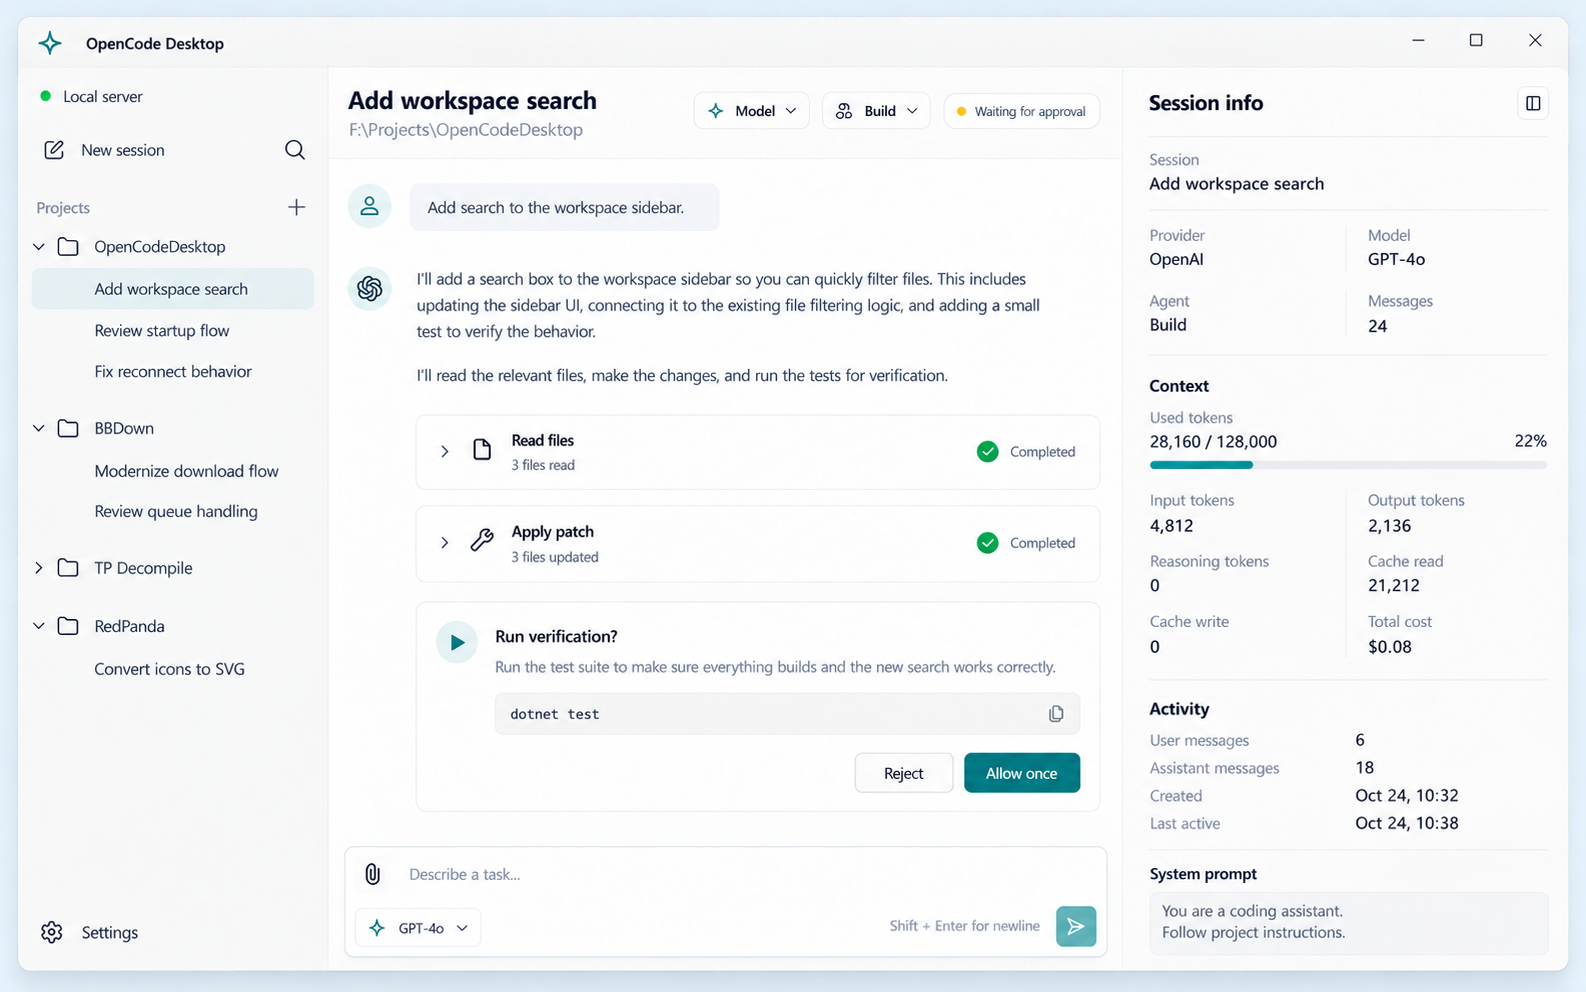
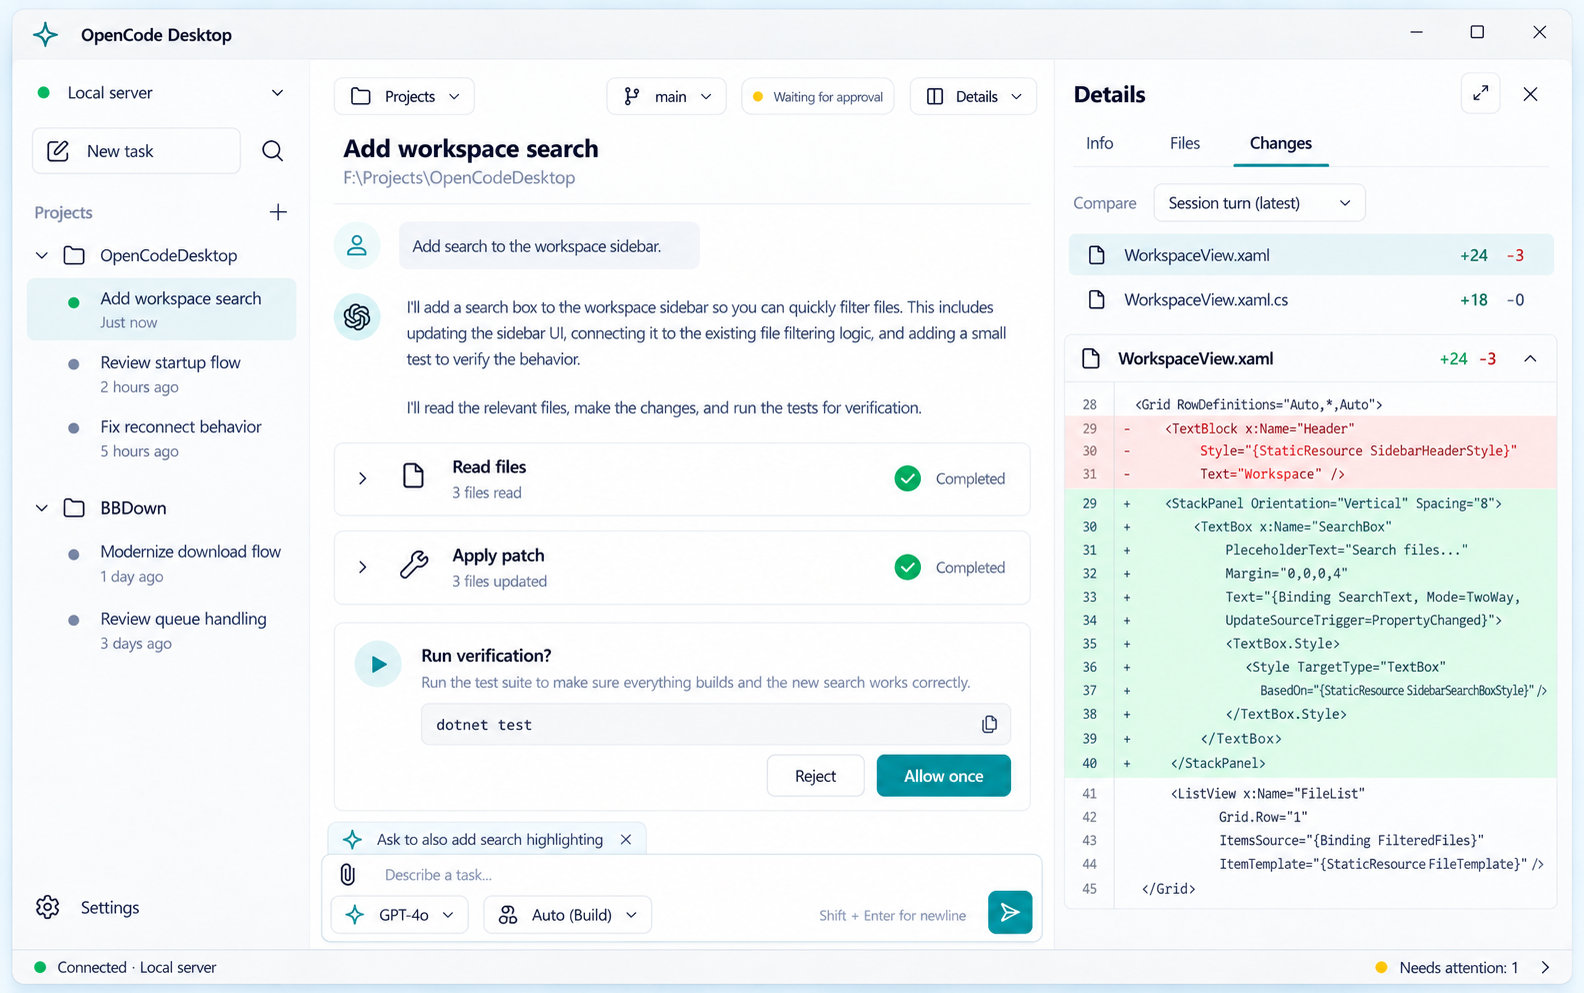
feat: Update design system documentation and implement interactive workspace layout

diff --git a/docs/work-items/WI-004-implement-interactive-workspace-layout.md b/docs/work-items/WI-004-implement-interactive-workspace-layout.md
@@ -1,0 +1,111 @@
+# WI-004 Implement the interactive workspace layout and Settings navigation
+
+## Details
+
+- Type: Implementation
+- Related requirements: [Workspace Layout and interaction requirements](../requirements/overview.md#workspace-layout); presentation surfaces for PRJ-01, SES-01/02/03, MSG-01/02, EXE-01/02/03, INT-01/02, REV-01/02, and P2 tools/settings. This item does not complete their live-service behavior.
+- Priority: P0 shell foundation
+- Dependencies: [WI-003](WI-003-implement-application-shell.md), completed
+- Status: See the [work item index](README.md)
+
+## Goal
+
+Deliver a runnable WinUI shell whose principal components have real layout, navigation, selection, and local interaction. A user must be able to launch without an OpenCode server and try the workspace, Details tabs, terminal surface, and Settings using explicitly labeled in-memory sample content. Empty boxes, static screenshots, and inert buttons alone do not satisfy this item. Later work supplies actual API operations and richer rendering.
+
+## Design and agreed boundaries
+
+Use the replaced [desktop concept](../requirements/desktop-concept.png), the [workspace requirements](../requirements/overview.md#workspace-layout), and existing [design tokens](../design/design-system.md). The image shows a representative Changes-tab state; the written scope below also defines the other tabs and Settings. Preserve the native Windows title bar and existing light/dark/high-contrast foundation. Match hierarchy and interaction rather than generated pixel details or example model names.
+
+- Remove the outer application navigation rail. Projects/sessions are the only left workspace panel.
+- Keep the central header, independently scrolling conversation, pending-input area, and anchored composer.
+- Replace Session info with a right-hand Details pane containing Info, Files, and Changes tabs. File previews and expanded diffs belong here, never in a bottom preview/diff panel.
+- Put Connections and Extensions inside Settings. Settings is reached from the projects-panel footer, with a header entry available when Projects is hidden. Settings replaces the workspace content and has an explicit return action.
+- Keep connection status and Needs attention reachable outside Settings. Connection state and session execution state have separate labels.
+- Both side panels collapse independently. Details is resizable and has expand/restore; narrow layouts use overlays or a full-content Details view without squeezing text into unusable columns. Terminal output alone may use a collapsible bottom surface.
+
+## Scope and component interactions
+
+### 1. Preview boundary and sample state
+
+Normal startup remains disconnected with truthful empty states and a visible **Preview sample workspace** entry. Entering preview displays a persistent **Layout preview - sample data** indicator. Supply at least two sample projects, several sessions with distinct execution states, a multi-message conversation with code and tool activity, a pending permission, a question form, files, changes, and terminal output. An **Exit preview** action restores the disconnected shell. A reset action restores sample fixtures for repeatable review.
+
+Keep preview state in App presentation models/view models, separate from real connection state and future service composition. Switching sessions preserves independent drafts, tab selection, selected file/diff, and scroll position within the running app. Samples never trigger HTTP, process execution, credential persistence, repository changes, provider authentication, or actual permission decisions. No fake success is shown as a live result.
+
+### 2. Projects and sessions
+
+Implement project expand/collapse, project/session search with clear and no-results states, session selection, and a New task action creating/selecting an in-memory draft. Project controls expose a local sample directory/worktree selector. A session menu provides preview rename, fork, archive/restore, and delete with observable local effects; cancel leaves state unchanged. Keep archived sessions reachable through a filter. Other future operations may be omitted rather than exposed as inert buttons.
+
+### 3. Header, conversation, and composer
+
+Show selected session title, server-side directory, sample branch/worktree, and execution state. Provide Projects, Details, Terminal, and Settings access. Render selectable sample text, a code block, expandable tool cards, a clickable file reference, and a clickable change summary.
+
+Composer controls include multiline draft input, attachment/reference sample picker with removable chips, model/agent selectors, and command/skill discovery with sample entries. Submit appends a clearly simulated local message; no agent response is implied. Show a pending-input list with queue/steer selection and cancel actions. A preview interrupt action changes only the sample execution state. Disabled actions explain their prerequisite; enabled actions must have an observable effect.
+
+Permission cards expose their scope and allow/reject choices; question cards support input, validation, submit, and cancel. Local responses update those cards and attention counts. Needs attention opens a cross-session list; choosing a request selects its owning session and reveals the relevant card. Reset restores requests for another trial.
+
+### 4. Details pane
+
+- **Info:** sample session/provider/model/agent metadata, context usage, activity, usage/cost, and instructions. Support expandable sections and a local instructions editor with save/cancel feedback clearly scoped to preview.
+- **Files:** searchable sample file navigation and a selected-file text/code preview with path and line numbers. Conversation file references open this tab and select the referenced file. Unsupported/binary and missing-file samples have explicit states; do not read actual server paths through local file APIs.
+- **Changes:** selectable changed-file list and a readable unified diff with additions/deletions identified by more than color. Comparison choices are Session turn, Working copy, and Branch, each with a visible basis and separate sample results. Conversation change summaries select the relevant diff. Represent no-changes state. No commit, push, or real revert action is required.
+- Preserve each tab's selected item and scroll position across tab and session navigation. Closing/reopening Details preserves context. Expand makes Details occupy the available workspace content area; restore returns to the previous split width. Both actions retain the active tab and content.
+
+### 5. Terminal surface
+
+Provide a collapsed-by-default, independently scrollable bottom terminal panel within the central workspace. Include terminal selection, sample output, clear/reset output, and close/reopen. An optional input field must label its interaction as simulated. Do not start a PTY or shell process. Closing the surface restores conversation space; file previews and diffs remain in Details.
+
+### 6. Settings
+
+Provide section navigation for **Connections**, **Models & Providers**, **Extensions**, **Permissions**, **Appearance**, and **Notifications**. Connections has the address/password form layout and explicit unavailable/live-integration explanation; do not accept or save real secrets in preview. Extensions includes MCP and plugin sample lists with selection and detail/status surfaces. The other sections provide representative selectors, toggles, or list/detail controls with local preview feedback. Appearance can continue following the system theme; theme persistence is deferred. Mark service-dependent actions unavailable with an explanation rather than simulating real authentication or updates.
+
+All sections must be reachable, scroll correctly, and offer usable controls rather than headings alone. Returning to Workspace restores the selected session, draft, open panels, and Details context. Do not implement live connection behavior here; [WI-002](WI-002-implement-server-connection.md) replaces the Connections preview afterward.
+
+## Responsibilities and exclusions
+
+App owns views, reusable presentation controls, view models, sample fixtures, in-memory navigation, and composition seams. Core and Infrastructure remain UI-independent; do not introduce business or transport abstractions solely for sample behavior. Reuse/update semantic resources and native controls rather than hardcoding independent styling per component.
+
+Excluded: all live OpenCode operations, real filesystem browsing/writing, terminal execution, streaming/recovery, credential storage, persisted preferences, full editor/LSP, full Git management, production Markdown/diff virtualization, and complete coverage of every API operation. The layout must leave clear extension points without implementing those workflows.
+
+## Deliverables
+
+1. Revised runnable shell and functional local preview covering every component above.
+2. Maintainable App views/view models and repeatable sample fixtures, with no new backend dependency.
+3. Updated design-system documentation reflecting actual regions, sizing tokens, responsive thresholds, Settings navigation, and WI-002 connection integration points. Remove obsolete navigation resources when unused.
+4. A short repeatable launch/preview walkthrough and actual verification evidence in this work item. Save screenshots outside the repository and record their paths; the concept remains the repository's design image.
+
+## Observable acceptance criteria
+
+- [ ] App launches without a server, has no application navigation rail, and enters/exits/resets an unmistakably labeled sample workspace without network/process/file mutations or a false Connected state.
+- [ ] Project grouping, search/no-results, session switching, sample directory/worktree selection, New task, and session-menu operations work locally; drafts remain independent between sessions.
+- [ ] Header, conversation, tool expansion, attachment chips, model/agent selectors, command/skill picker, simulated submission/interrupt, and queue/steer/cancel controls have observable local behavior.
+- [ ] Permission and form interactions, validation/cancellation, attention counts, and cross-session attention navigation can be exercised repeatedly using reset.
+- [ ] Info, Files, and Changes tabs work; file references and change summaries navigate to the correct content; comparisons identify their basis; file/diff empty and unavailable states are inspectable.
+- [ ] Tab/session selection and scroll state survive navigation; Projects and Details collapse/reopen independently; Details resize and expand/restore work without losing content or focus.
+- [ ] Terminal opens, selects sample output, clears/resets, and closes without executing commands or taking ownership of previews/diffs.
+- [ ] All six Settings sections are reachable with representative controls; Connections and Extensions have no outer navigation entries; return restores workspace state; Settings stays accessible with Projects hidden.
+- [ ] At initial 1440 x 900 DIPs and existing 640 x 480 outer minimum, primary actions remain reachable, overlays dismiss, independent scrolling works, and long paths/diffs do not squeeze sidebar text or overlap the composer/status area.
+- [ ] Keyboard traversal/activation, tab and list navigation, focus recovery, accessible names, non-color status/diff cues, system light/dark/high contrast, and 100%/150%/200% display scaling plus enlarged text are checked with actual results recorded.
+- [ ] Normal x64 solution build passes; a documented app launch route works; runtime walkthrough covers the interactions above. Required review is accepted before Done; unavailable checks remain unchecked and implementation-complete work stays Awaiting Acceptance.
+
+## Verification requirements
+
+```powershell
+dotnet build OpenCodeDesktop.slnx -p:Platform=x64
+git diff --check
+```
+
+Run the built app using a working packaged development deployment. If normal activation fails, record the error and exact temporary self-contained/unpackaged build/launch command used (see WI-003 precedent); do not silently change repository packaging or treat a build as a successful launch.
+
+Walkthrough: disconnected startup -> preview -> project/search/session navigation -> edit draft and switch away/back -> create/rename/fork/archive/restore/delete sample session -> expand tool card -> reply to permission/form through attention list -> use composer selectors/attachments/commands/queue -> open referenced file -> switch/select diff comparisons -> Info -> resize/expand/restore/close/reopen Details -> sample terminal -> every Settings section -> return with context intact -> narrow-window and keyboard checks -> exit/reset preview. Repeat theme and scaling checks, recording exact environment, observed results, external screenshot paths, and limitations.
+
+Inspect preview actions for accidental service/process/file operations and real-secret retention. Core/Infrastructure test runs are unnecessary for App-only layout work; run their meaningful tests if their behavior changes. Add focused tests only for substantive state logic introduced, such as per-session draft isolation or attention ownership, rather than tests mirroring XAML. Zero discovered tests do not establish behavior validation.
+
+## Planning decisions and evidence
+
+- 2026-10-24: User approved removal of outer navigation, Settings ownership of Connections/Extensions, and Info/Files/Changes within the right Details pane. User requested an updated concept and a work item that yields a runnable, navigable component layout before backend detail is filled in.
+- 2026-10-24: Replaced the concept using built-in image generation with the previous PNG as edit reference. The selected image shows Changes active, a file list/diff within Details, the projects-panel Settings entry, and persistent status/attention. Exact generation prompt: [desktop-concept-prompt.txt](../design/desktop-concept-prompt.txt). It is a design illustration, not implementation or runtime evidence.
+- 2026-10-24: Place this item before WI-002 and update WI-002 to integrate Connections inside Settings. Explicit offline preview reconciles hands-on layout review with truthful disconnected behavior.
+
+## Implementation and verification record
+
+Implementation has not started. Creating this definition and replacing the concept do not execute this work item. No application build or runtime acceptance is claimed by this planning change.

diff --git a/docs/work-items/WI-002-implement-server-connection.md b/docs/work-items/WI-002-implement-server-connection.md
@@ -5,7 +5,7 @@
 - Type: Implementation
 - Related requirements: CON-01, CON-02
 - Priority: P0
-- Dependencies: WI-001 completed and its target/support boundary accepted; WI-003 application shell completed and accepted
+- Dependencies: WI-001 completed and its target/support boundary accepted; WI-003 application shell completed and accepted; WI-004 interactive layout and Settings navigation
 - Status: See the [work item index](README.md)
 
 ## Goal and contract
@@ -16,7 +16,7 @@ Allow a user to enter an existing local OpenCode server address and password, ex
 
 - Core: UI-independent address validation, connection result/state models, supported-version policy, and an external connection service abstraction. Keep transport details outside Core.
 - Infrastructure: injected `HttpClient` implementation; Basic authentication with username `opencode`; `GET /api/info`; DTO validation and mapping; five-second total deadline, cancellation, failure classification, and resource cleanup. Disable automatic redirects. Do not log credentials or treat returned server paths as client paths.
-- App: replace the WI-003 shell's Connection placeholder with address input, masked password input, connect/cancel actions, disconnected/connecting/ready/failure presentation, and actionable messages. Reuse its design tokens and update its persistent connection-status region. Compose implementations at startup. Keep the last entered address available for correction and credentials only in memory for the active connection flow.
+- App: replace the WI-004 Settings > Connections preview with address input, masked password input, connect/cancel actions, disconnected/connecting/ready/failure presentation, and actionable messages. Do not restore a standalone Connection navigation destination. Reuse the shell's design tokens and update its persistent connection-status region. Compose implementations at startup. Keep the last entered address available for correction and credentials only in memory for the active connection flow. Keep offline layout-preview state separate from real connection state.
 - Tests: Core validation/policy with no network; Infrastructure controlled HTTP handlers for request construction, response parsing, cancellation, timeout, and error mapping. The real-service verification is opt-in.
 
 The supported origin is `http://127.0.0.1:<explicit-port>` with optional trailing slash. A successful probe requires HTTP 200, required fields of the correct types, and exact version `2.1.4`. Ignore unknown response properties without accepting another version. One attempt runs at a time; cancellation and completion cannot overwrite the result of a newer attempt.
@@ -54,4 +54,4 @@ Record manual keyboard, masked input, responsive connect/cancel, correction/retr
 
 ## Implementation and verification record
 
-Not started. WI-001 was accepted on 2026-10-24; its dependency is satisfied. On 2026-10-24, WI-003 was placed first to establish design tokens and the application shell; that dependency remains outstanding.
+Not started. WI-001 and WI-003 were accepted on 2026-10-24. The subsequently agreed shell removes application navigation and moves Connections into Settings; WI-004 now precedes this item and supplies that presentation surface. The accepted connection contract and implementation scope are otherwise unchanged.

diff --git a/docs/requirements/overview.md b/docs/requirements/overview.md
@@ -20,7 +20,11 @@ This document records the initial product direction derived from the official v2
 
 ## Workspace Layout
 
-The [desktop concept](desktop-concept.png) establishes the intended workspace layout: a collapsible project/session panel, a central task header, conversation and composer, and a collapsible session-info pane. App navigation remains separate; the project/session panel belongs to Workspace and is visible only when that destination is selected. The shell prepares these regions before their features are implemented. Example content in the image is illustrative and must not imply selected data or live capabilities in the disconnected client.
+The [desktop concept](desktop-concept.png) establishes the intended workspace layout: a collapsible project/session panel, a central task header, conversation and composer, and a collapsible, resizable Details pane. There is no separate application navigation rail. Settings is accessible from the projects panel and remains accessible from the workspace header when that panel is collapsed. Connections and Extensions are sections inside Settings, alongside Models & Providers, Permissions, Appearance, and Notifications. Returning from Settings restores the workspace context.
+
+Details has Info, Files, and Changes tabs. Info contains session metadata, context, instructions, usage, and activity. Files combines navigation/search with a selected-file preview. Changes combines a changed-file list with an expanded diff and an explicit comparison selector. Conversation file references and change summaries open the corresponding Details tab. Each tab retains its selection and scroll position; the pane supports expand/restore for larger previews. File previews and diffs live in Details rather than below the conversation. A collapsible terminal surface can occupy the bottom of the central workspace. Connection status and pending-attention access remain visible outside Settings.
+
+The shell should support an explicitly labeled, offline layout preview with in-memory sample content so users can exercise navigation and component interactions before live integrations exist. Sample projects, models, permissions, execution states, and outputs are illustrative; they must never imply a real connection, execution, file mutation, or approval. The normal disconnected experience remains truthful and can be restored from preview mode.
 
 ## Integration Direction
 

diff --git a/docs/design/design-system.md b/docs/design/design-system.md
@@ -2,6 +2,8 @@
 
 This initial visual foundation is delivered by [WI-003](../work-items/WI-003-implement-application-shell.md). It covers the disconnected application shell. Server connection and task workflows extend it in later work items.
 
+The revised [desktop concept](../requirements/desktop-concept.png) and [workspace requirements](../requirements/overview.md#workspace-layout) supersede the application-navigation and single-inspector layout described below. [WI-004](../work-items/WI-004-implement-interactive-workspace-layout.md) will remove the rail, move Connections and Extensions into Settings, and introduce the interactive tabbed Details pane. Until that item is implemented, the token catalog and implementation descriptions below describe the existing WI-003 shell. WI-004 must update them to match the delivered layout.
+
 ## Visual direction
 
 Use [the desktop concept](../requirements/desktop-concept.png) as the layout reference: a left project/session sidebar, a central task workspace with header, conversation, and bottom input area, and a right session inspector. Use native WinUI controls, system typography, quiet layered surfaces, and restrained borders. Content headings establish hierarchy; explanatory text wraps rather than truncates. The native title bar supplies application identity and standard window controls. No custom branding or control templates are introduced.

diff --git a/docs/work-items/README.md b/docs/work-items/README.md
@@ -8,9 +8,10 @@ This is the active index for unfinished work, in intended execution order. Done 
 
 | ID | Task | Type | Status | Dependencies |
 | --- | --- | --- | --- | --- |
-| [WI-002](WI-002-implement-server-connection.md) | Connect to the pinned existing OpenCode server | Implementation | Ready | [WI-001](WI-001-verify-connection-contract.md), [WI-003](WI-003-implement-application-shell.md) |
+| [WI-004](WI-004-implement-interactive-workspace-layout.md) | Implement the interactive workspace layout and Settings navigation | Implementation | Ready | [WI-003](WI-003-implement-application-shell.md) |
+| [WI-002](WI-002-implement-server-connection.md) | Connect to the pinned existing OpenCode server | Implementation | Ready | [WI-001](WI-001-verify-connection-contract.md), [WI-003](WI-003-implement-application-shell.md), [WI-004](WI-004-implement-interactive-workspace-layout.md) |
 
-Next: WI-002. Both dependencies, WI-001 and WI-003, are complete. Execution has not started.
+Next: WI-004. WI-003 is complete; layout implementation has not started. WI-002 follows WI-004 so its connection UI can be implemented inside Settings rather than the superseded Connection destination.
 
 ## Working Agreements
 
